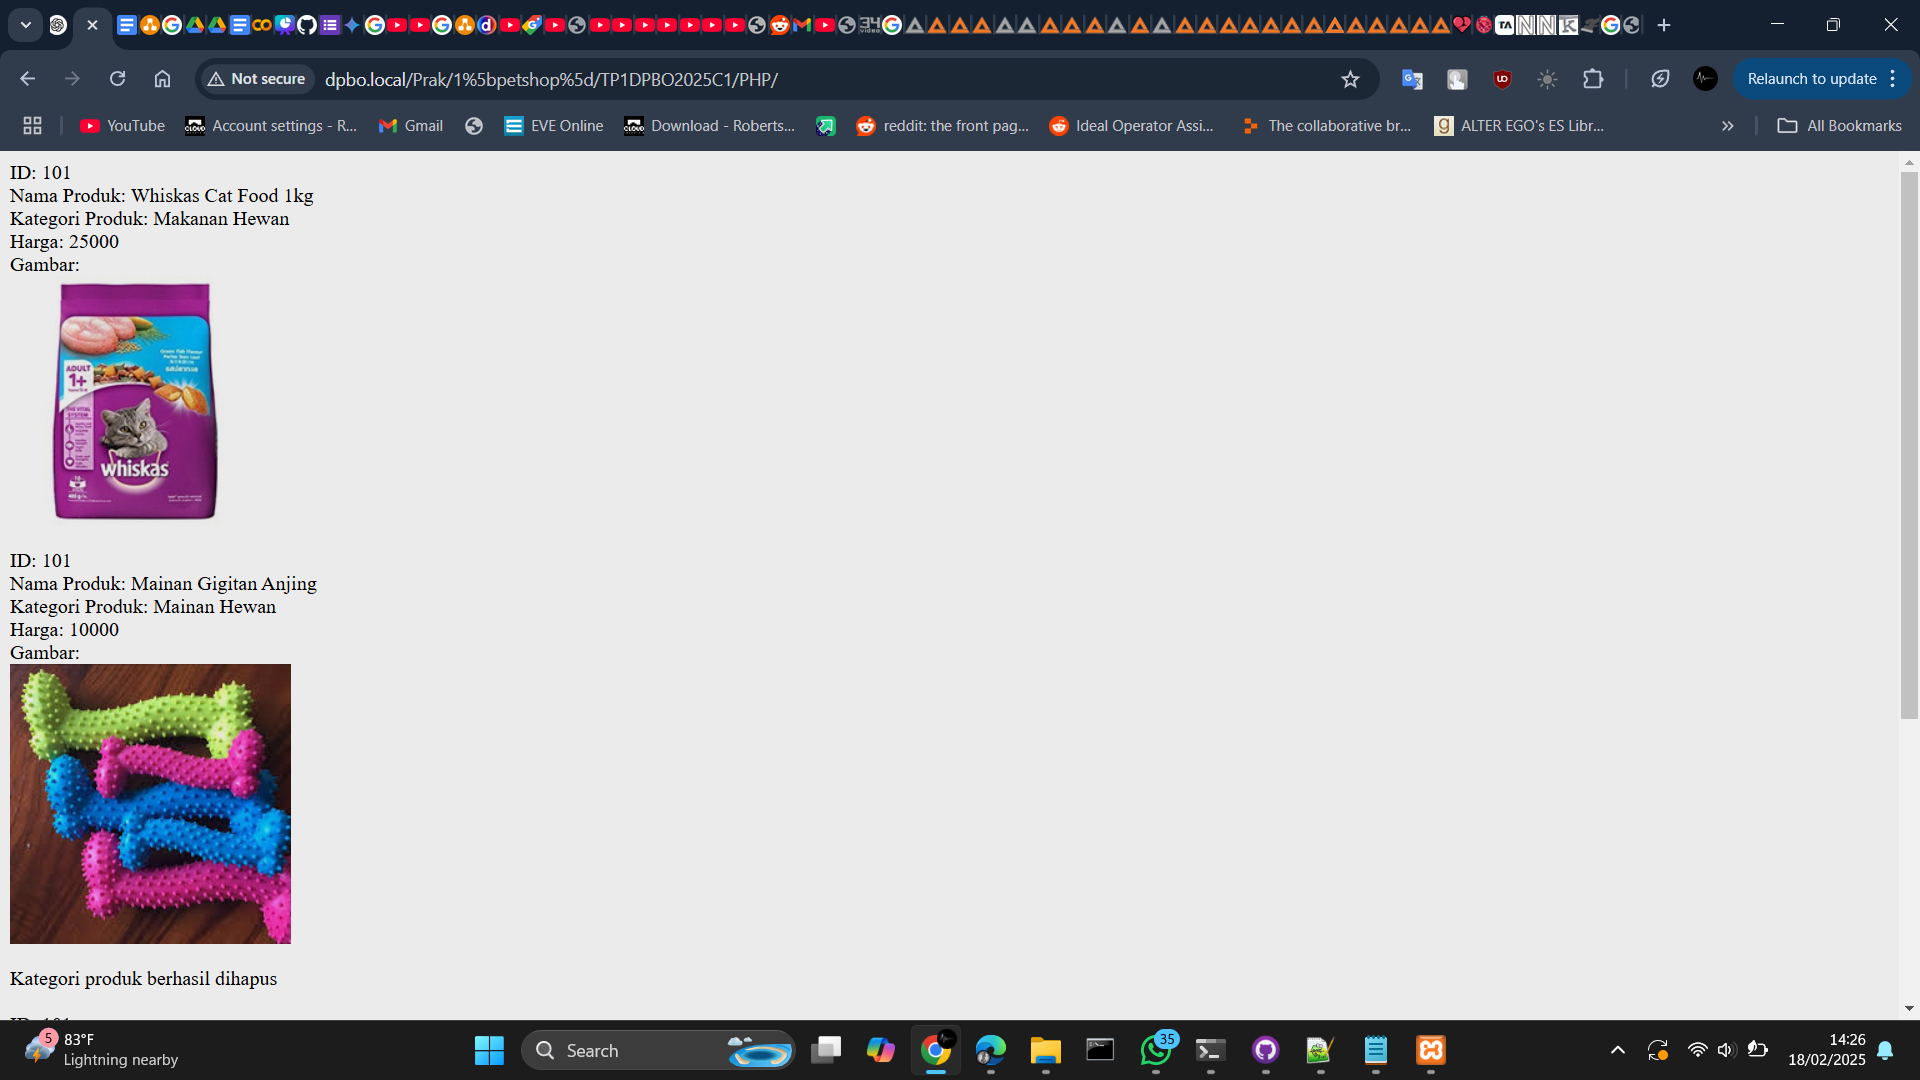
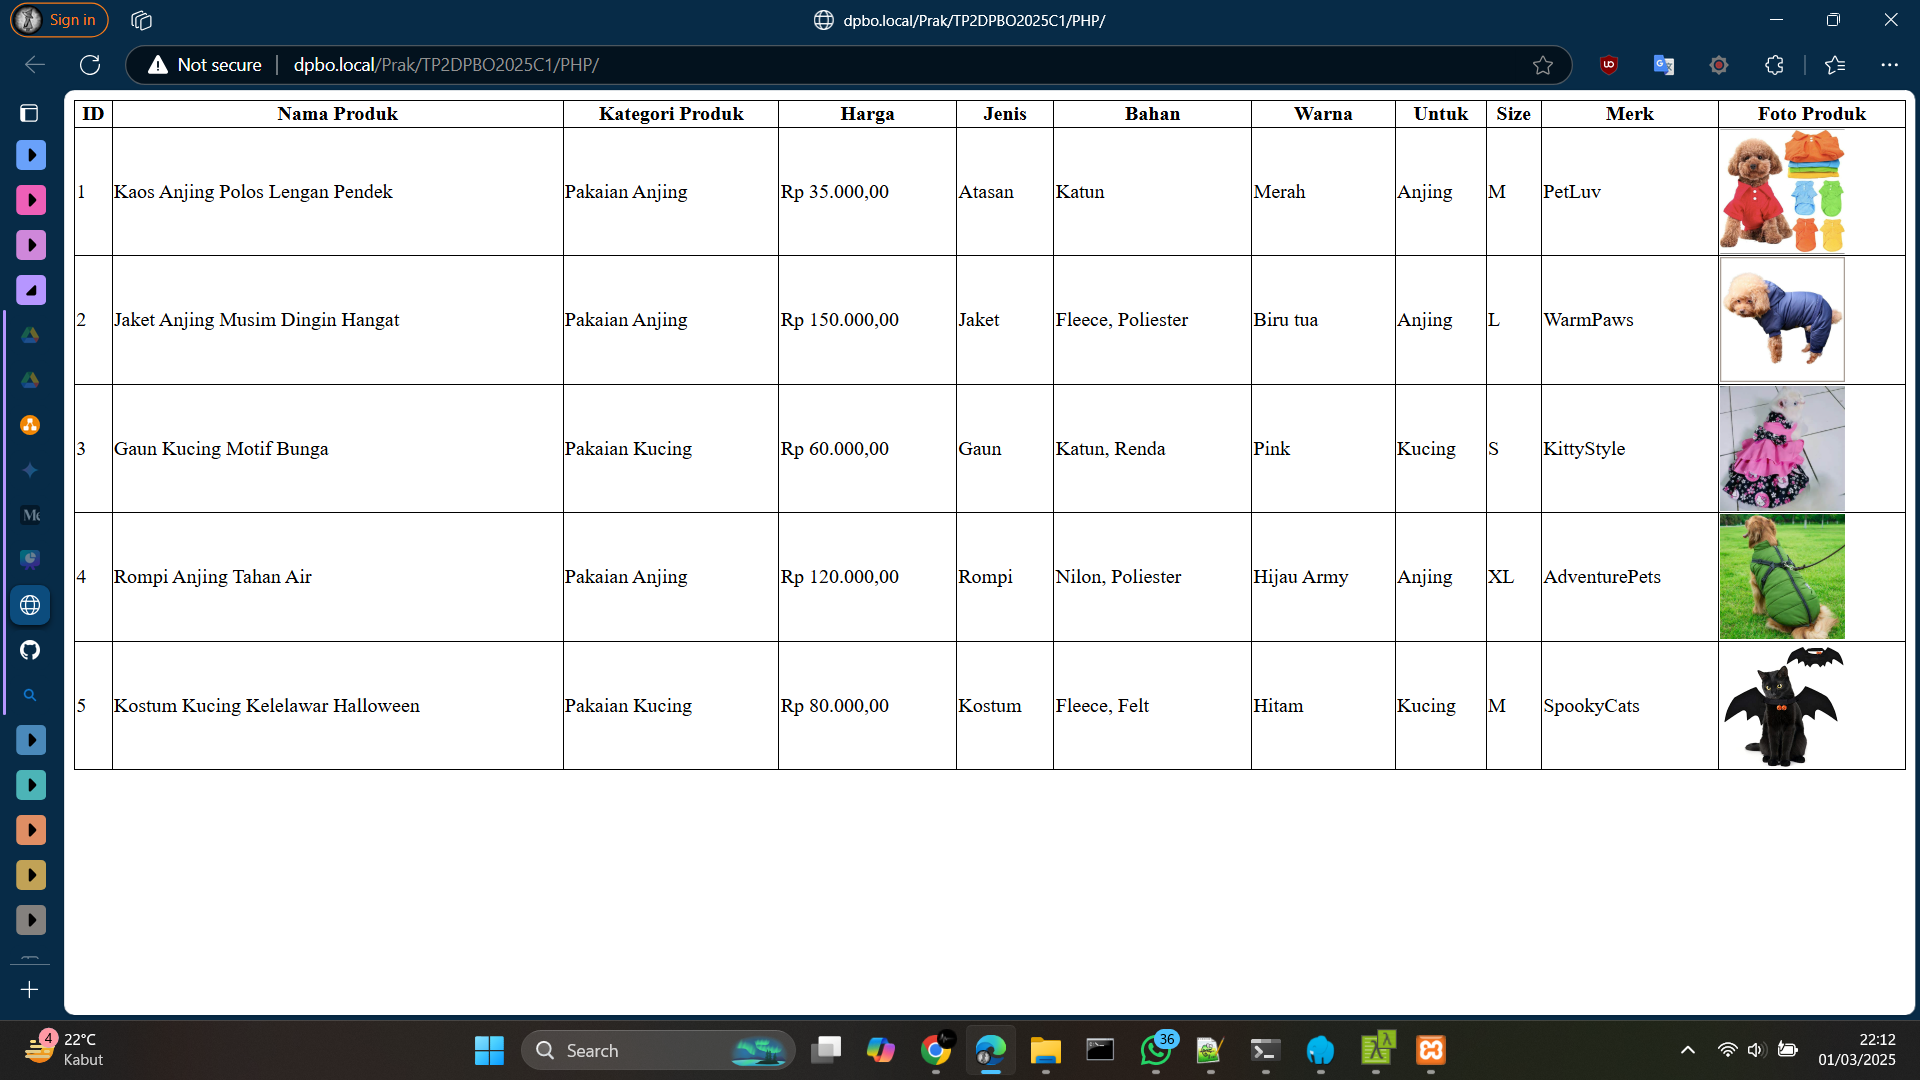
PHP

diff --git a/PHP/index.php b/PHP/index.php
@@ -1,34 +1,53 @@
 <?php
-include "Petshop.php";
+include "Baju.php";
 
-$produk = new Petshop();
+// Membuat object
+$arrBaju = [];
 
-// Menambahkan data baru
-$produk->setId(101);
-$produk->setNamaProduk("Whiskas Cat Food 1kg");
-$produk->setKategoriProduk("Makanan Hewan");
-$produk->setHarga(25000.00);
-$produk->setGambar("images/whiskas_cat_food_1kg.jpg");
-
-// Tampilkan produk
-$produk->display();
-
-// Mengubah data yang sudah ada
-$produk->setNamaProduk("Mainan Gigitan Anjing");
-$produk->setKategoriProduk("Mainan Hewan");
-$produk->setHarga(10000.00);
-$produk->setGambar("images/mainan_gigitan_anjing.jpeg");
-
-// Tampilkan produk
-$produk->display();
-
-// Menghapus data dari objek (misalkan kategori)
-$produk->remove(3);
-
-// Tampilkan produk
-$produk->display();
-
-// Mencari data objek (misalkan nama produk)
-echo "Nama Produk: " . $produk->getNamaProduk();
-
+// Menambahkan data ke 5 objek baju
+$arrBaju[0] = new Baju();
+$arrBaju[0]->addBaju(1, "Kaos Anjing Polos Lengan Pendek", "Pakaian Anjing", 35000.00, "Atasan", "Katun", "Merah", "Anjing", "M", "PetLuv", "images/kaos_anjing.jpeg");
+$arrBaju[1] = new Baju();
+$arrBaju[1]->addBaju(2, "Jaket Anjing Musim Dingin Hangat", "Pakaian Anjing", 150000.00, "Jaket", "Fleece, Poliester", "Biru tua", "Anjing", "L", "WarmPaws", "images/jaket_anjing.jpg");
+$arrBaju[2] = new Baju();
+$arrBaju[2]->addBaju(3, "Gaun Kucing Motif Bunga", "Pakaian Kucing", 60000.00, "Gaun", "Katun, Renda", "Pink", "Kucing", "S", "KittyStyle", "images/gaun_kucing.jpeg");
+$arrBaju[3] = new Baju();
+$arrBaju[3]->addBaju(4, "Rompi Anjing Tahan Air", "Pakaian Anjing", 120000.00, "Rompi", "Nilon, Poliester", "Hijau Army", "Anjing", "XL", "AdventurePets", "images/rompi_anjing.jpeg");
+$arrBaju[4] = new Baju();
+$arrBaju[4]->addBaju(5, "Kostum Kucing Kelelawar Halloween", "Pakaian Kucing", 80000.00, "Kostum", "Fleece, Felt", "Hitam", "Kucing", "M", "SpookyCats", "images/kostum_kucing.jpg");
 ?>
+
+<table style="border-collapse: collapse; width: 100%;">
+    <thead>
+        <tr>
+            <th style="border: 1px solid black;">ID</th>
+            <th style="border: 1px solid black;">Nama Produk</th>
+            <th style="border: 1px solid black;">Kategori Produk</th>
+            <th style="border: 1px solid black;">Harga</th>
+            <th style="border: 1px solid black;">Jenis</th>
+            <th style="border: 1px solid black;">Bahan</th>
+            <th style="border: 1px solid black;">Warna</th>
+            <th style="border: 1px solid black;">Untuk</th>
+            <th style="border: 1px solid black;">Size</th>
+            <th style="border: 1px solid black;">Merk</th>
+			<th style="border: 1px solid black;">Foto Produk</th>
+        </tr>
+    </thead>
+    <tbody>
+        <?php foreach ($arrBaju as $baju): ?>
+            <tr>
+                <td style="border: 1px solid black;"><?php echo $baju->getId(); ?></td>
+                <td style="border: 1px solid black;"><?php echo $baju->getNamaProduk(); ?></td>
+                <td style="border: 1px solid black;"><?php echo $baju->getKategoriProduk(); ?></td>
+                <td style="border: 1px solid black;"><?php echo "Rp " . number_format($baju->getHarga(), 2, ',', '.'); ?></td>
+                <td style="border: 1px solid black;"><?php echo $baju->getJenis(); ?></td>
+                <td style="border: 1px solid black;"><?php echo $baju->getBahan(); ?></td>
+                <td style="border: 1px solid black;"><?php echo $baju->getWarna(); ?></td>
+                <td style="border: 1px solid black;"><?php echo $baju->getUntuk(); ?></td>
+                <td style="border: 1px solid black;"><?php echo $baju->getSize(); ?></td>
+                <td style="border: 1px solid black;"><?php echo $baju->getMerk(); ?></td>
+				<td style="border: 1px solid black;"><img src="<?php echo $baju->getFotoProduk(); ?>" alt="Foto Produk" width="100"></td>
+            </tr>
+        <?php endforeach; ?>
+    </tbody>
+</table>

diff --git a/PHP/Petshop.php b/PHP/Petshop.php
@@ -3,11 +3,15 @@ class Petshop{
 	private $ID = 0;
 	private $Nama_Produk = "";
 	private $Kategori_Produk = "";
-	private $Harga = 0.0;
-	private $Gambar = "";
+	private $Harga = 0;
+	private $Foto_Produk = "";
 	
-	function __construct(){
-		
+	function __construct($id, $nama_produk, $kategori_produk, $harga, $foto_produk){
+		$this->ID = $id;
+		$this->Nama_Produk = $nama_produk;
+		$this->Kategori_Produk = $kategori_produk;
+		$this->Harga = $harga;
+		$this->Foto_Produk = $foto_produk;
 	}
 	
 	// Setter
@@ -15,59 +19,15 @@ class Petshop{
 	function setNamaProduk($nama_produk){$this->Nama_Produk = $nama_produk;}
 	function setKategoriProduk($kategori_produk){$this->Kategori_Produk = $kategori_produk;}
 	function setHarga($harga){$this->Harga = $harga;}
-	function setGambar($gambar){$this->Gambar = $gambar;}
+	function setFotoProduk($foto_produk){$this->Foto_Produk = $foto_produk;}
 	
 	// Getter
 	function getId(){return $this->ID;}
 	function getNamaProduk(){return $this->Nama_Produk;}
 	function getKategoriProduk(){return $this->Kategori_Produk;}
 	function getHarga(){return $this->Harga;}
-	function getGambar(){return $this->Gambar;}
+	function getFotoProduk(){return $this->Foto_Produk;}
 	
-	// Fungsi-fungsi wajib
-	// Menampilkan data produk
-	function display(){
-		echo "ID: " . $this->getId() . "<br>";
-		echo "Nama Produk: " . $this->getNamaProduk() . "<br>";
-		echo "Kategori Produk: " . $this->getKategoriProduk() . "<br>";
-		echo "Harga: " . $this->getHarga() . "<br>";
-		echo "Gambar:<br><img src='" . $this->getGambar() . "' alt='Gambar Produk'><br><br>";
-	}
-	
-	// Menghapus data yang diinginkan
-	function remove($num){
-		switch($num){
-			case 1:
-				$this->setId(0);
-				echo "ID berhasil dihapus<br>";
-				break;
-			case 2:
-				$this->setNamaProduk("");
-				echo "Nama produk berhasil dihapus<br>";
-				break;
-			case 3:
-				$this->setKategoriProduk("");
-				echo "Kategori produk berhasil dihapus<br>";
-				break;
-			case 4:
-				$this->setHarga(0.0);
-				echo "Harga berhasil dihapus<br>";
-				break;
-			case 5:
-				$this->setGambar("");
-				echo "Gambar berhasil dihapus<br>";
-				break;
-			case 6:
-				$this->setId(0);
-				$this->setNamaProduk("");
-				$this->setKategoriProduk("");
-				$this->setHarga(0.0);
-				$this->setGambar("");
-				echo "Data produk berhasil dihapus<br>";
-				break;
-		}
-		echo "<br>";
-	}
 	
 	function __destruct(){
 		

diff --git a/PHP/Baju.php b/PHP/Baju.php
@@ -1,0 +1,46 @@
+<?php
+include "Aksesoris.php";
+
+class Baju extends Aksesoris{
+	private $Untuk;
+	private $Size;
+	private $Merk;
+	
+	function __construct($untuk = null, $size = null, $merk = null){
+		if($untuk !== null && $size !== null && $merk !== null){
+			$this->Untuk = $untuk;
+			$this->Size = $size;
+			$this->Merk = $merk;
+		}
+	}
+	
+	// Setter
+	function setUntuk($untuk){$this->Untuk = $untuk;}
+	function setSize($size){$this->Size = $size;}
+	function setMerk($merk){$this->Merk = $merk;}
+	
+	// Getter
+	function getUntuk(){return $this->Untuk;}
+	function getSize(){return $this->Size;}
+	function getMerk(){return $this->Merk;}
+	
+	public function addBaju($id, $nama_produk, $kategori_produk, $harga, $jenis, $bahan, $warna, $untuk, $size, $merk, $foto_produk) {
+        $this->setId($id);
+        $this->setNamaProduk($nama_produk);
+        $this->setKategoriProduk($kategori_produk);
+        $this->setHarga($harga);
+        $this->setJenis($jenis);
+        $this->setBahan($bahan);
+        $this->setWarna($warna);
+        $this->setUntuk($untuk);
+        $this->setSize($size);
+        $this->setMerk($merk);
+		$this->setFotoProduk($foto_produk);
+    }
+	
+	function __destruct(){
+		
+	}
+}
+
+?>

diff --git a/PHP/Aksesoris.php b/PHP/Aksesoris.php
@@ -1,0 +1,30 @@
+<?php
+include "Petshop.php";
+
+class Aksesoris extends Petshop{
+	private $Jenis;
+	private $Bahan;
+	private $Warna;
+	
+	function __construct($jenis = null, $bahan = null, $warna = null){
+		if($jenis !== null && $bahan !== null && $warna !== null){
+			$this->Jenis = $jenis;
+			$this->Bahan = $bahan;
+			$this->Warna = $warna;
+		}
+	}
+	
+	function setJenis($jenis){$this->Jenis = $jenis;}
+	function setBahan($bahan){$this->Bahan = $bahan;}
+	function setWarna($warna){$this->Warna = $warna;}
+	
+	function getJenis(){return $this->Jenis;}
+	function getBahan(){return $this->Bahan;}
+	function getWarna(){return $this->Warna;}
+	
+	function __destruct(){
+		
+	}
+}
+
+?>
